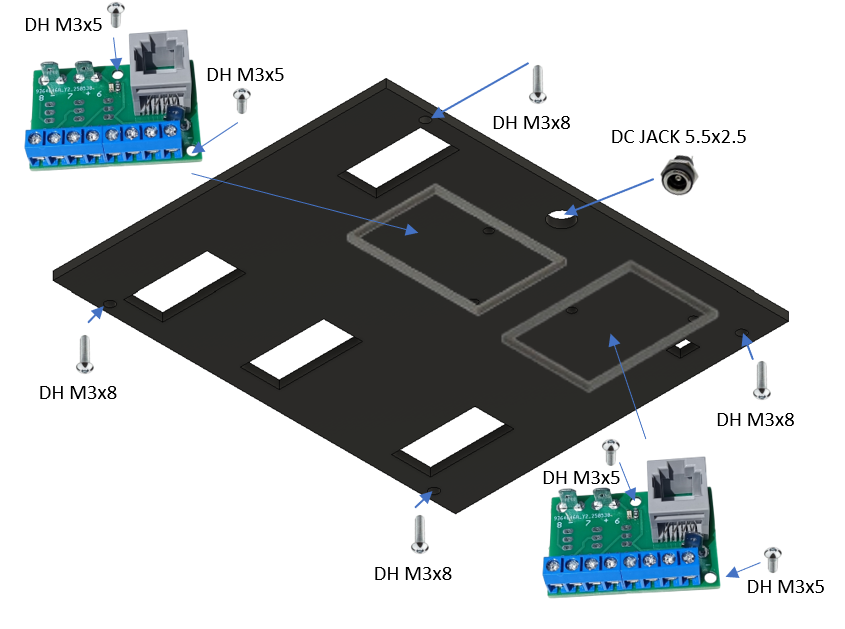
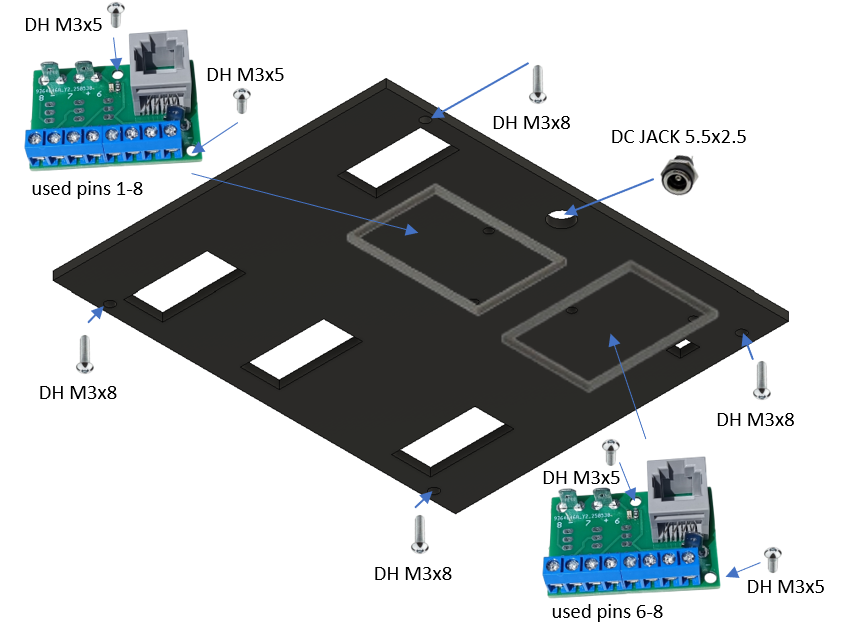
Add the pin ranges and a placeholder page for the rotary knobs
Replace the PCB diagram with the corrected render that labels the
pins, and split the PCB table into one row per board. Add a
placeholder build notes page for the rotary knobs and link it from
the panel and the model list.

diff --git a/docs/models/04-navigation-panel.md b/docs/models/04-navigation-panel.md
@@ -68,6 +68,7 @@ The knob for the SOURCE selector is a separate model shared with the other panel
 | | |
 |---|---|
 | 📦 Printable model | [Boeing 737 Overhead - Rotary Knobs](https://makerworld.com/en/models/3066127-boeing-737-overhead-rotary-knobs) |
+| 🔧 Build notes | [Rotary Knobs](03-rotary-knobs.md) |
 
 ---
 
@@ -86,9 +87,10 @@ The knob for the SOURCE selector is a separate model shared with the other panel
 
 ## PCB
 
-| Qty | PCB | Gerber files |
-|---:|---|---|
-| 2× | [RJ45 Direct](../pcb/rj45-direct.md) | [📥 PCB_RJ45_Direct.zip](https://raw.githubusercontent.com/om7ea/B737/main/PCB/PCB_RJ45_Direct.zip) |
+| Qty | PCB | Connections used | Gerber files |
+|---:|---|---|---|
+| 1× | [RJ45 Direct](../pcb/rj45-direct.md) | pins 1–8 | [📥 PCB_RJ45_Direct.zip](https://raw.githubusercontent.com/om7ea/B737/main/PCB/PCB_RJ45_Direct.zip) |
+| 1× | [RJ45 Direct](../pcb/rj45-direct.md) | pins 6–8 | [📥 PCB_RJ45_Direct.zip](https://raw.githubusercontent.com/om7ea/B737/main/PCB/PCB_RJ45_Direct.zip) |
 
 Mounting and connections are shown in [step 4](#4-backlight-panel--pcbs-and-dc-jack) of the assembly diagram.
 

diff --git a/docs/models/README.md b/docs/models/README.md
@@ -16,7 +16,7 @@ These are not panels. The frame carries the whole overhead, and the components b
 |---|---:|---|---|---|
 | | 1 | Main Frame | [Model](https://makerworld.com/en/models/3179915-boeing-737-overhead-frame) | 🚧 |
 | | 2 | Annunciators | [Model](https://makerworld.com/en/models/3121595-boeing-737-overhead-annunciators) | [Notes](02-annunciators.md) |
-| | 3 | Rotary Knobs | [Model](https://makerworld.com/en/models/3066127-boeing-737-overhead-rotary-knobs) | 🚧 |
+| | 3 | Rotary Knobs | [Model](https://makerworld.com/en/models/3066127-boeing-737-overhead-rotary-knobs) | [Notes](03-rotary-knobs.md) |
 
 ---
 

diff --git a/docs/models/03-rotary-knobs.md b/docs/models/03-rotary-knobs.md
@@ -1,0 +1,10 @@
+# 3. Rotary Knobs
+
+[📦 Download the printable model on MakerWorld](https://makerworld.com/en/models/3066127-boeing-737-overhead-rotary-knobs)
+
+[← Back to model list](README.md)
+
+---
+
+> **Coming soon**
+> The build notes for the rotary knobs are still being prepared and will be published on this page.
